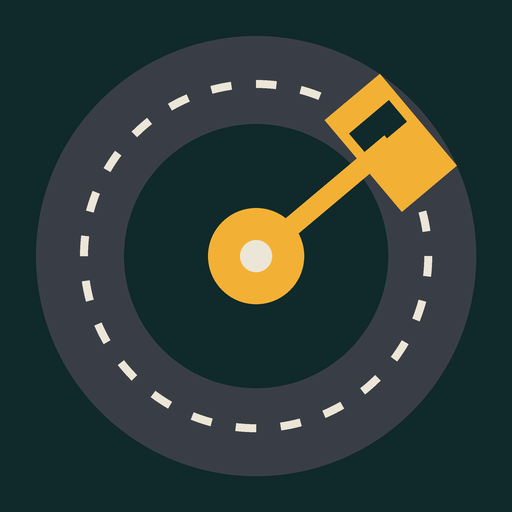
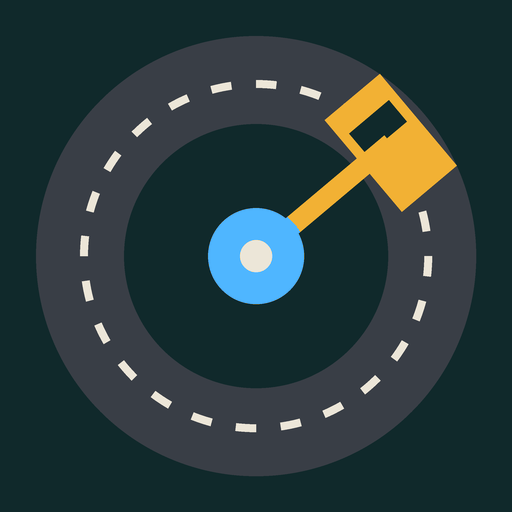
Switch the UI accent from amber to ice blue
Titles, buttons, icons, borders, the tower emblem hub and the loading
ring now use ice blue #4fb6ff. The player's car and rope stay amber,
and gold is kept for medals and coin amounts only.

Claude-Session: https://claude.ai/code/session_01VxP4fq4Re5Vr8So5Q1HJU8

Changed region(s): [[0.4062, 0.4062, 0.5938, 0.5938]]

diff --git a/web/shell.html b/web/shell.html
@@ -21,7 +21,7 @@ body { color: #e6f1f8; background-color: #06121b; overflow: hidden; touch-action
 #emblem { width: calc(var(--w) * 0.42); height: auto; overflow: visible; }
 #logo { width: var(--w); margin-top: calc(var(--w) * 0.03); }
 #bottom { width: min(86vw, 420px); margin-bottom: 6vh; text-align: center; }
-#title { color: #f2b134; font-weight: 800; letter-spacing: 0.08em; font-size: 15px; margin-bottom: 6px; }
+#title { color: #4fb6ff; font-weight: 800; letter-spacing: 0.08em; font-size: 15px; margin-bottom: 6px; }
 #tip { font-size: 14px; line-height: 1.35; text-shadow: 0 1px 2px rgba(0,0,0,0.6); min-height: 2.7em; }
 /* emblem parts, in a 240 x 240 box centred on the tower */
 #orbit { animation: orbit 3.927s linear infinite; }           /* 1.6 rad/s, like the game */
@@ -48,11 +48,11 @@ $GODOT_HEAD_INCLUDE
     <svg id="emblem" viewBox="-120 -120 240 240" role="progressbar" aria-label="Loading">
       <circle r="108" fill="rgba(6,18,27,0.55)" stroke="rgba(230,241,248,0.3)" stroke-width="2"/>
       <circle r="78" fill="none" stroke="rgba(230,241,248,0.12)" stroke-width="1.5"/>
-      <circle id="ring" class="spin" r="108" fill="none" stroke="#f2b134" stroke-width="7" stroke-linecap="round"
+      <circle id="ring" class="spin" r="108" fill="none" stroke="#4fb6ff" stroke-width="7" stroke-linecap="round"
         pathLength="100" stroke-dasharray="100 100" stroke-dashoffset="100"/>
-      <g id="head"><circle cx="108" r="6.6" fill="#f2b134"/><circle cx="108" r="4.2" fill="#fff3d1"/></g>
+      <g id="head"><circle cx="108" r="6.6" fill="#4fb6ff"/><circle cx="108" r="4.2" fill="#e6f1f8"/></g>
       <circle r="30" fill="#2a2f36"/>
-      <circle r="23" fill="#f2b134"/>
+      <circle r="23" fill="#4fb6ff"/>
       <g id="rotor" stroke="#2a2f36" stroke-width="6" stroke-linecap="round">
         <line x2="20"/><line x2="20" transform="rotate(120)"/><line x2="20" transform="rotate(240)"/>
       </g>
@@ -62,7 +62,7 @@ $GODOT_HEAD_INCLUDE
         <rect x="68.2" y="-9.6" width="19.6" height="14.4" fill="#1a2330"/>
       </g>
     </svg>
[2 lines of base64/hex data omitted]
   </div>
   <div id="bottom">
     <div id="title">LOADING</div>

diff --git a/web/shell_template.html b/web/shell_template.html
@@ -21,7 +21,7 @@ body { color: #e6f1f8; background-color: #06121b; overflow: hidden; touch-action
 #emblem { width: calc(var(--w) * 0.42); height: auto; overflow: visible; }
 #logo { width: var(--w); margin-top: calc(var(--w) * 0.03); }
 #bottom { width: min(86vw, 420px); margin-bottom: 6vh; text-align: center; }
-#title { color: #f2b134; font-weight: 800; letter-spacing: 0.08em; font-size: 15px; margin-bottom: 6px; }
+#title { color: #4fb6ff; font-weight: 800; letter-spacing: 0.08em; font-size: 15px; margin-bottom: 6px; }
 #tip { font-size: 14px; line-height: 1.35; text-shadow: 0 1px 2px rgba(0,0,0,0.6); min-height: 2.7em; }
 /* emblem parts, in a 240 x 240 box centred on the tower */
 #orbit { animation: orbit 3.927s linear infinite; }           /* 1.6 rad/s, like the game */
@@ -48,11 +48,11 @@ $GODOT_HEAD_INCLUDE
     <svg id="emblem" viewBox="-120 -120 240 240" role="progressbar" aria-label="Loading">
       <circle r="108" fill="rgba(6,18,27,0.55)" stroke="rgba(230,241,248,0.3)" stroke-width="2"/>
       <circle r="78" fill="none" stroke="rgba(230,241,248,0.12)" stroke-width="1.5"/>
-      <circle id="ring" class="spin" r="108" fill="none" stroke="#f2b134" stroke-width="7" stroke-linecap="round"
+      <circle id="ring" class="spin" r="108" fill="none" stroke="#4fb6ff" stroke-width="7" stroke-linecap="round"
         pathLength="100" stroke-dasharray="100 100" stroke-dashoffset="100"/>
-      <g id="head"><circle cx="108" r="6.6" fill="#f2b134"/><circle cx="108" r="4.2" fill="#fff3d1"/></g>
+      <g id="head"><circle cx="108" r="6.6" fill="#4fb6ff"/><circle cx="108" r="4.2" fill="#e6f1f8"/></g>
       <circle r="30" fill="#2a2f36"/>
-      <circle r="23" fill="#f2b134"/>
+      <circle r="23" fill="#4fb6ff"/>
       <g id="rotor" stroke="#2a2f36" stroke-width="6" stroke-linecap="round">
         <line x2="20"/><line x2="20" transform="rotate(120)"/><line x2="20" transform="rotate(240)"/>
       </g>

diff --git a/tools/promo/edit.py b/tools/promo/edit.py
@@ -34,7 +34,7 @@ DEFAULT_PLAN = {
 TITLE_FONT = os.path.join(ROOT, "fonts/Bungee-Regular.ttf")
 BODY_FONT = os.path.join(ROOT, "fonts/ChakraPetch-Bold.ttf")
 LOGO = os.path.join(ROOT, "icons/splash.png")
-GOLD = "0xf2b134"
+ACCENT = "0x4fb6ff"   # UI accent (ice blue)
 BG = "0x06121b"
 
 
@@ -53,7 +53,7 @@ def caption_filters(text, t0, t1, w, h):
         # small upward slide while it appears
         y = f"{int(h * 0.15) + i * int(size * 1.15)}-20*max(0,1-(t-{t0})/0.2)"
         out.append(
-            f"drawtext=fontfile='{TITLE_FONT}':text='{esc(line)}':fontsize={size}:fontcolor={GOLD}"
+            f"drawtext=fontfile='{TITLE_FONT}':text='{esc(line)}':fontsize={size}:fontcolor={ACCENT}"
             f":borderw=10:bordercolor=0x06121b:shadowx=0:shadowy=8:shadowcolor=0x06121b@0.6"
             f":x=(w-text_w)/2:y='{y}':alpha='{a}':enable='between(t,{t0},{t1})'"
         )
@@ -98,7 +98,7 @@ def main():
     f.append(f"[cardbg][logo]overlay=x=(W-w)/2:y=(H-h)/2-{int(h*0.06)}:shortest=1,"
              f"drawtext=fontfile='{BODY_FONT}':text='{esc(card['tagline'])}':fontsize=64:fontcolor=white"
              f":x=(w-text_w)/2:y={int(h*0.70)}:alpha='min(1,max(0,(t-0.4)/0.3))',"
-             f"drawtext=fontfile='{BODY_FONT}':text='{esc(card['footer'])}':fontsize=50:fontcolor={GOLD}"
+             f"drawtext=fontfile='{BODY_FONT}':text='{esc(card['footer'])}':fontsize=50:fontcolor={ACCENT}"
              f":x=(w-text_w)/2:y={int(h*0.70)+100}:alpha='min(1,max(0,(t-0.8)/0.3))',"
              # a white flash into the card, a fade to black at the very end
              f"fps={fps},format=yuv420p,setsar=1,fade=t=in:d=0.35:color=white,fade=t=out:st={d - 0.4}:d=0.4[vcard]")

diff --git a/AGENTS.md b/AGENTS.md
@@ -59,6 +59,10 @@ with `SHOT_DIR=<dir>`. Demo flags in `scripts/main.gd`: `--demo=`, `--tutorial-d
 
 - Original game: track layouts and art must be original, never copied from another game.
 - Targets Android and iOS (web build via WASM).
+- Colour roles: the UI accent is ice blue `#4fb6ff` (`C_ACCENT` in `menu_art.gd`, mirrored in `ui.gd`,
+  `menu.gd`, `garage.gd`); amber `#f2b134` is the player's car and rope; gold is only for medals and
+  coins (`C_COIN`). Icons/splash PNGs and the logo PNG inside `web/shell.html` must follow `icon.svg`
+  and `menu_art.gd` when these change.
 - The race camera stays fairly top-down (68°) while the player steers, so lines through bends stay
   readable. Low cinematic shots (`WorldView.CINE_SHOTS`, picked in `main.gd` `_pick_shot`) are only
   for moments nobody steers: countdown, finish/results, the tutorial's cards and frozen bends.
